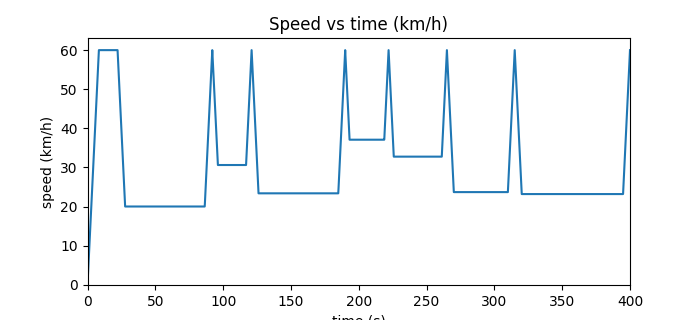
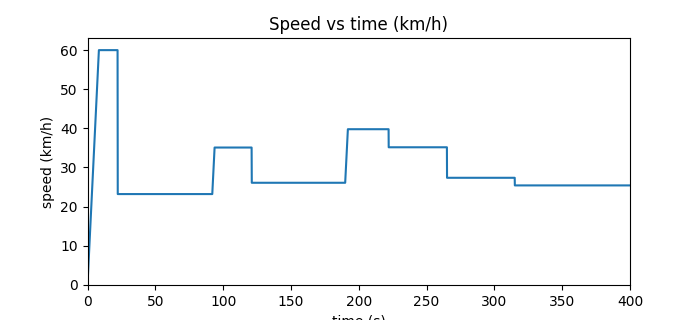
more feasable time optimal velocity profile

Changed region(s): [[0.15, 0.1562, 0.9, 0.6562]]

diff --git a/src/utils.py b/src/utils.py
@@ -28,24 +28,32 @@ def earliest_green_at_or_after(t, win_list, C, k_ahead=6):
         raise RuntimeError("no green")
     return best
 
-def solve_profile_segment(d, v_in, dt, v_max, a_max, n=1001):
+import numpy as np
+
+def solve_profile_segment(
+    d, v_in, dt, v_max, a_max, n=1001,
+    mode="flat",          # "flat" (default) or "time"
+    v1_min=None           # optional lower bound on exit speed from lookahead
+):
     """
-    Returns (t, v, v_exit):
-      t: time samples in [0, dt]
-      v: velocity samples with 0<=v<=v_max and |dv/dt|<=a_max
-      v_exit: maximal feasible terminal speed
-    Returns None if truly infeasible.
+    Returns (t, v, v_exit) or None if infeasible.
+
+    mode="flat": minimize peak speed (choose smallest speed cap that still covers d)
+    mode="time": maximize exit speed (your current behavior)
+    v1_min: required minimum exit speed (from lookahead); if None, no requirement.
     """
     a = float(a_max); T = float(dt); v0 = float(v_in); vmax = float(v_max)
-    if T <= 0 or a <= 0 or vmax < 0 or v0 < 0 or d < 0: 
+    if T <= 0 or a <= 0 or vmax < 0 or v0 < 0 or d < 0:
         return None
 
     t = np.linspace(0.0, T, n)
     trapz = lambda x: float(np.trapz(x, t))
 
-    def envelopes(v1):
-        up = np.minimum.reduce([np.full(n, vmax), v0 + a*t, v1 + a*(T - t)])
-        lo = np.maximum.reduce([np.zeros(n),       v0 - a*t, v1 - a*(T - t)])
+    def envelopes(v1, cap=None):
+        # cap is an optional temporary speed limit (<= v_max) to “flatten” the profile
+        lim = vmax if cap is None else min(vmax, cap)
+        up = np.minimum.reduce([np.full(n, lim), v0 + a*t, v1 + a*(T - t)])
+        lo = np.maximum.reduce([np.zeros(n),     v0 - a*t, v1 - a*(T - t)])
         return lo, up
 
     def fill_from_top(lo, up, area):
@@ -53,43 +61,78 @@ def solve_profile_segment(d, v_in, dt, v_max, a_max, n=1001):
         for _ in range(60):
             lam = 0.5*(lam_lo + lam_hi)
             v = np.clip(up - lam, lo, up)
-            if trapz(v) > area: 
+            if trapz(v) > area:
                 lam_lo = lam
             else:
                 lam_hi = lam
         return np.clip(up - lam_hi, lo, up)
 
-    # terminal-speed bounds
+    # terminal-speed bounds from accel and v_max
     loB = max(0.0, v0 - a*T)
     hiB = min(vmax, v0 + a*T)
 
-    # tolerant feasibility check using extreme envelopes
+    # quick feasibility with true v_max
     smax = trapz(np.minimum.reduce([np.full(n, vmax), v0 + a*t, hiB + a*(T - t)]))
     smin = trapz(np.maximum.reduce([np.zeros(n),       v0 - a*t, loB - a*(T - t)]))
-    epsA = 1e-6 * max(1.0, d, vmax*T)  # robust tolerance for sampling error
+    epsA = 1e-6 * max(1.0, d, vmax*T)
     if d > smax + epsA or d < smin - epsA:
         return None
 
-    # helper: minimal area attainable for a given v1 (lower envelope)
+    # helper for minimal area attainable for a given terminal speed
     def smin_given(v1):
         lo = np.maximum.reduce([np.zeros(n), v0 - a*t, v1 - a*(T - t)])
         return trapz(lo)
 
-    # pick v1 to maximize terminal speed while keeping area reachable
-    if d >= smin_given(hiB) - epsA:
-        v1 = hiB
-    else:
-        L, R = loB, hiB
-        for _ in range(60):
-            m = 0.5*(L + R)
-            if smin_given(m) > d: 
-                R = m
-            else:
-                L = m
-        v1 = L
+    # --- mode: time-optimal (original behavior) -------------------------------
+    if mode == "time":
+        if d >= smin_given(hiB) - epsA:
+            v1 = hiB
+        else:
+            L, R = loB, hiB
+            for _ in range(60):
+                m = 0.5*(L + R)
+                if smin_given(m) > d:
+                    R = m
+                else:
+                    L = m
+            v1 = L
+        lo, up = envelopes(v1)
+        v = fill_from_top(lo, up, d)
+        v[0], v[-1] = v0, v1
+        return t, v, v1
 
-    # build the profile by “filling from the top” to hit exact distance
-    lo, up = envelopes(v1)
+    # --- mode: flat (minimize peak speed subject to covering d) ---------------
+    # respect any required exit-speed lower bound
+    if v1_min is None:
+        v1_req = loB
+    else:
+        v1_req = max(loB, min(hiB, float(v1_min)))
+
+    # bisection on temporary speed cap c in [c_lo, c_hi] to find the smallest
+    # cap that still allows area >= d.
+    def smax_with_cap(c):
+        # Use the best (largest allowed) v1 under this cap for the "can we reach d?" test
+        v1c = min(hiB, c)
+        _, upc = envelopes(v1c, cap=c)
+        return trapz(upc)
+
+    c_lo = max(0.0, v1_req)   # cap must be at least required exit speed
+    c_hi = vmax
+    if d > smax_with_cap(c_hi) + epsA:
+        return None  # even full v_max cap can't cover distance (shouldn't happen due to earlier check)
+
+    for _ in range(60):
+        c_mid = 0.5*(c_lo + c_hi)
+        if smax_with_cap(c_mid) >= d - epsA:
+            c_hi = c_mid
+        else:
+            c_lo = c_mid
+    cap = c_hi
+
+    # choose an exit speed not exceeding the cap, but >= v1_req
+    v1 = max(v1_req, min(hiB, cap))
+
+    lo, up = envelopes(v1, cap=cap)
     v = fill_from_top(lo, up, d)
     v[0], v[-1] = v0, v1
     return t, v, v1
